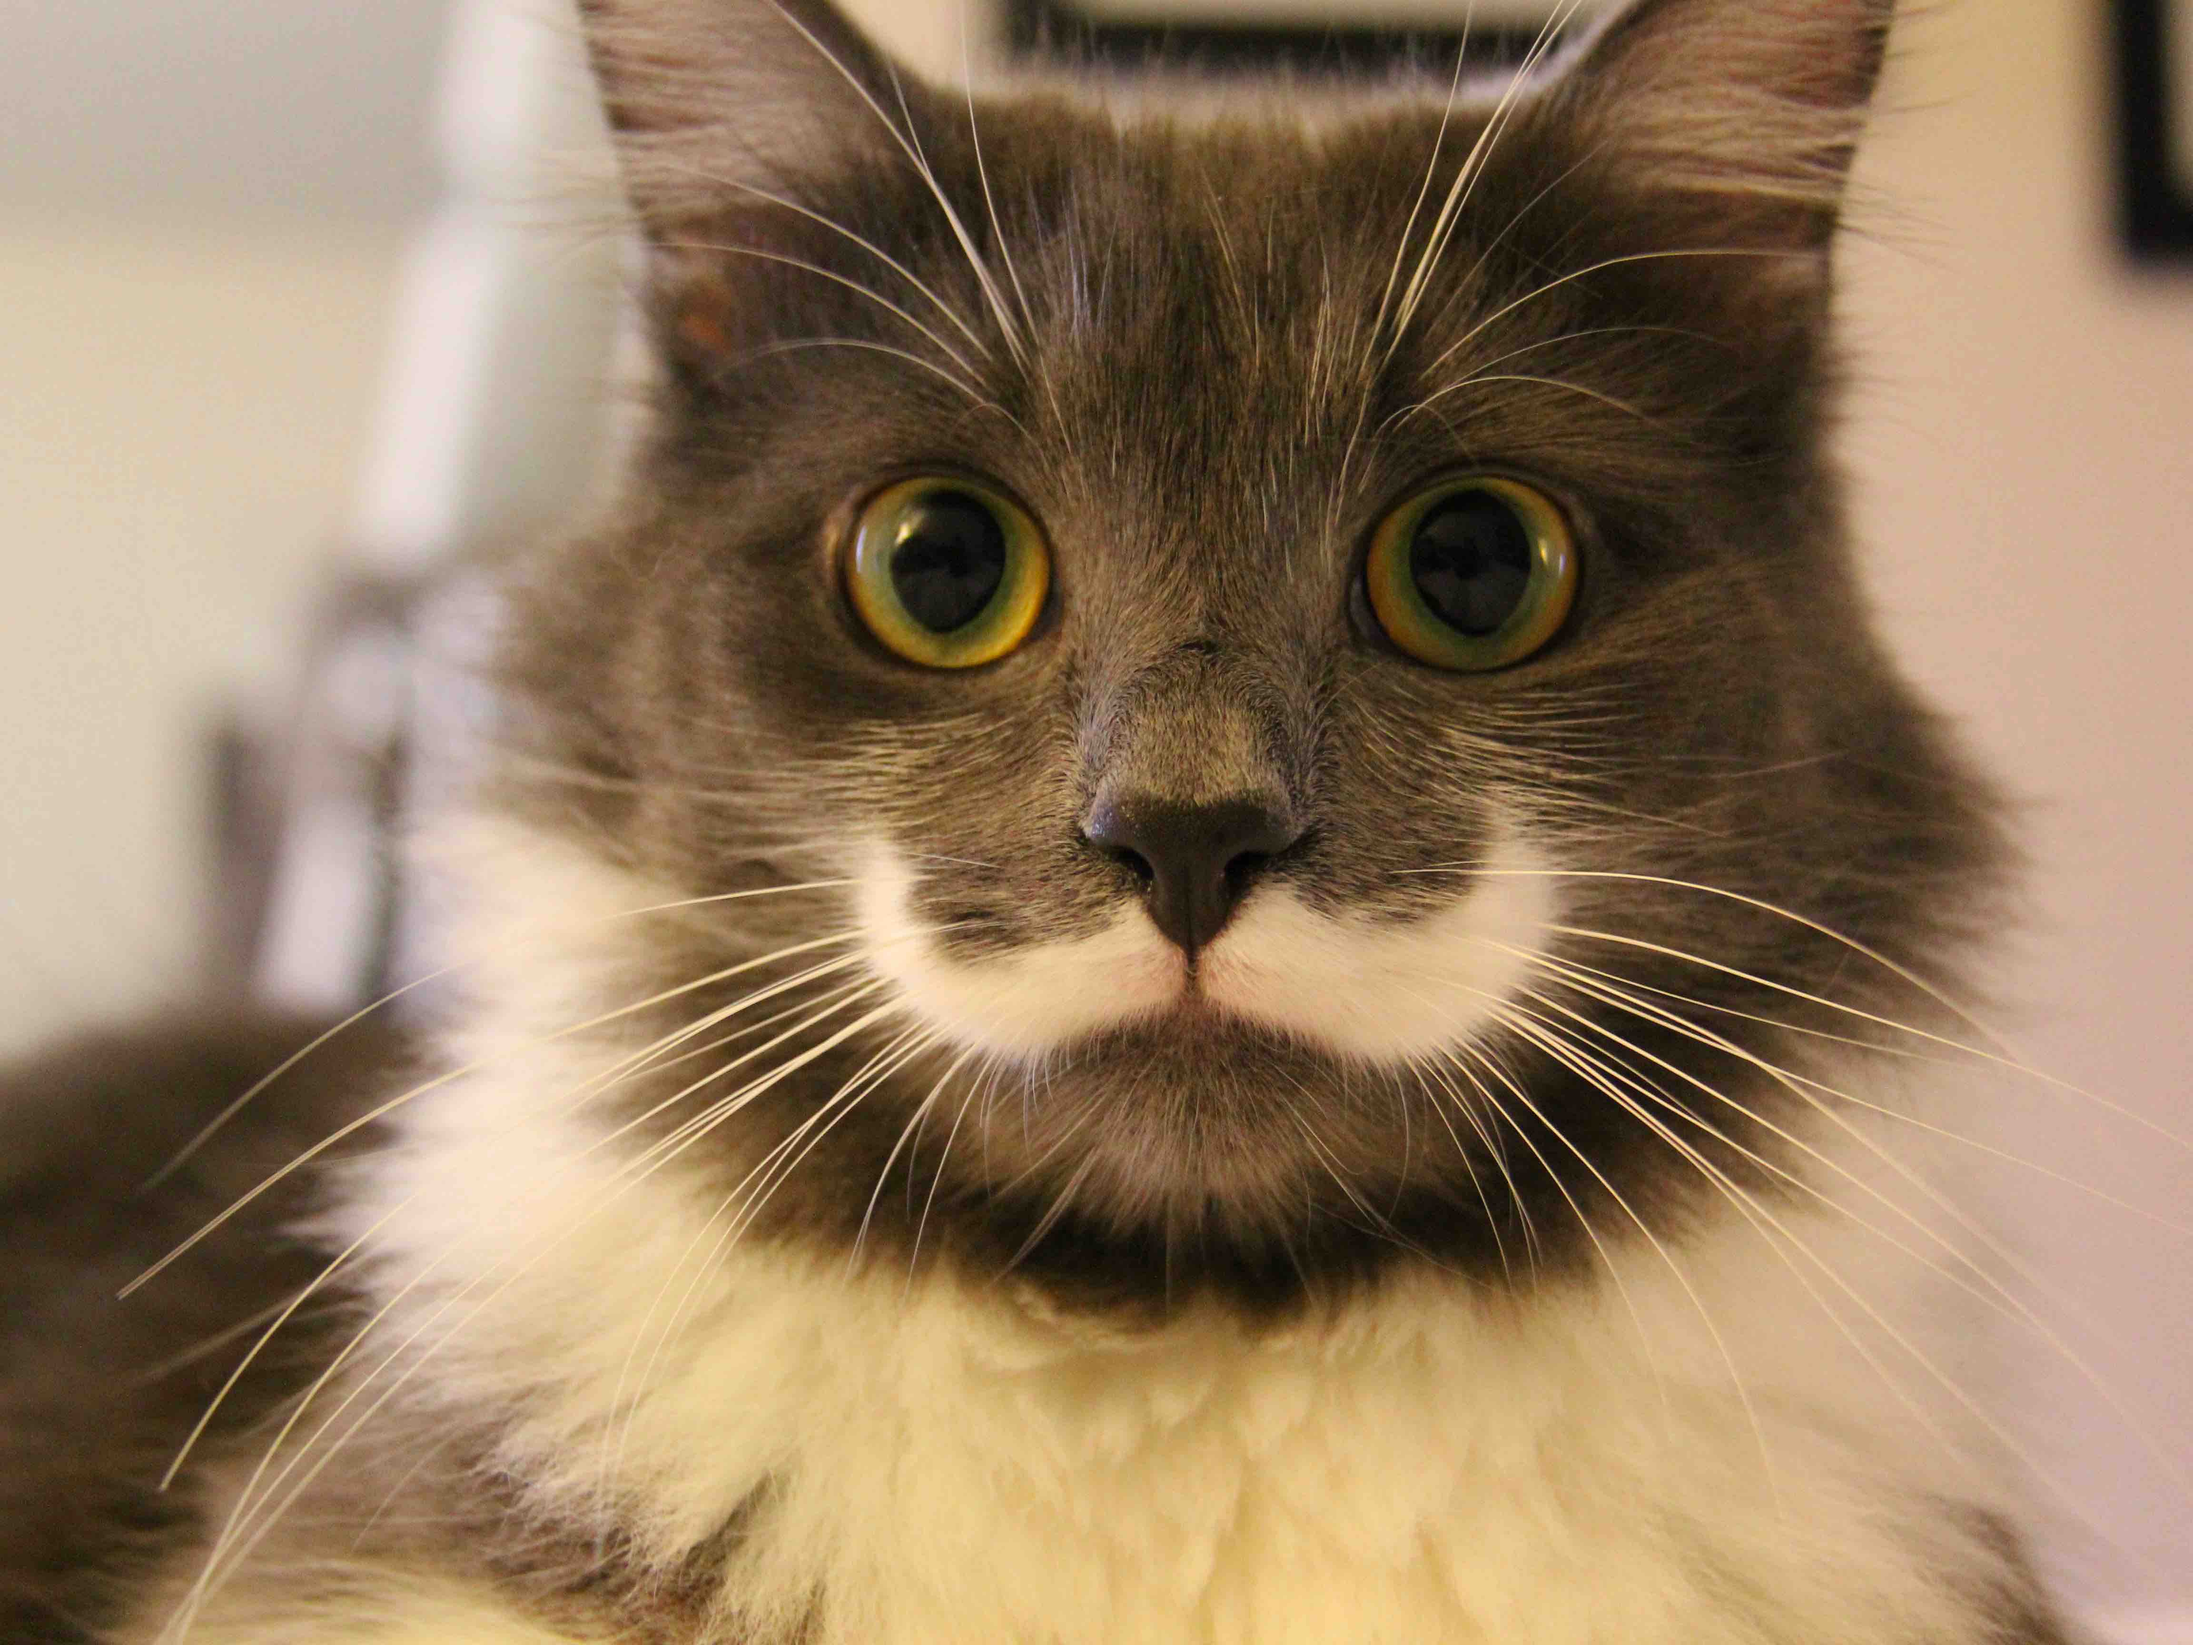
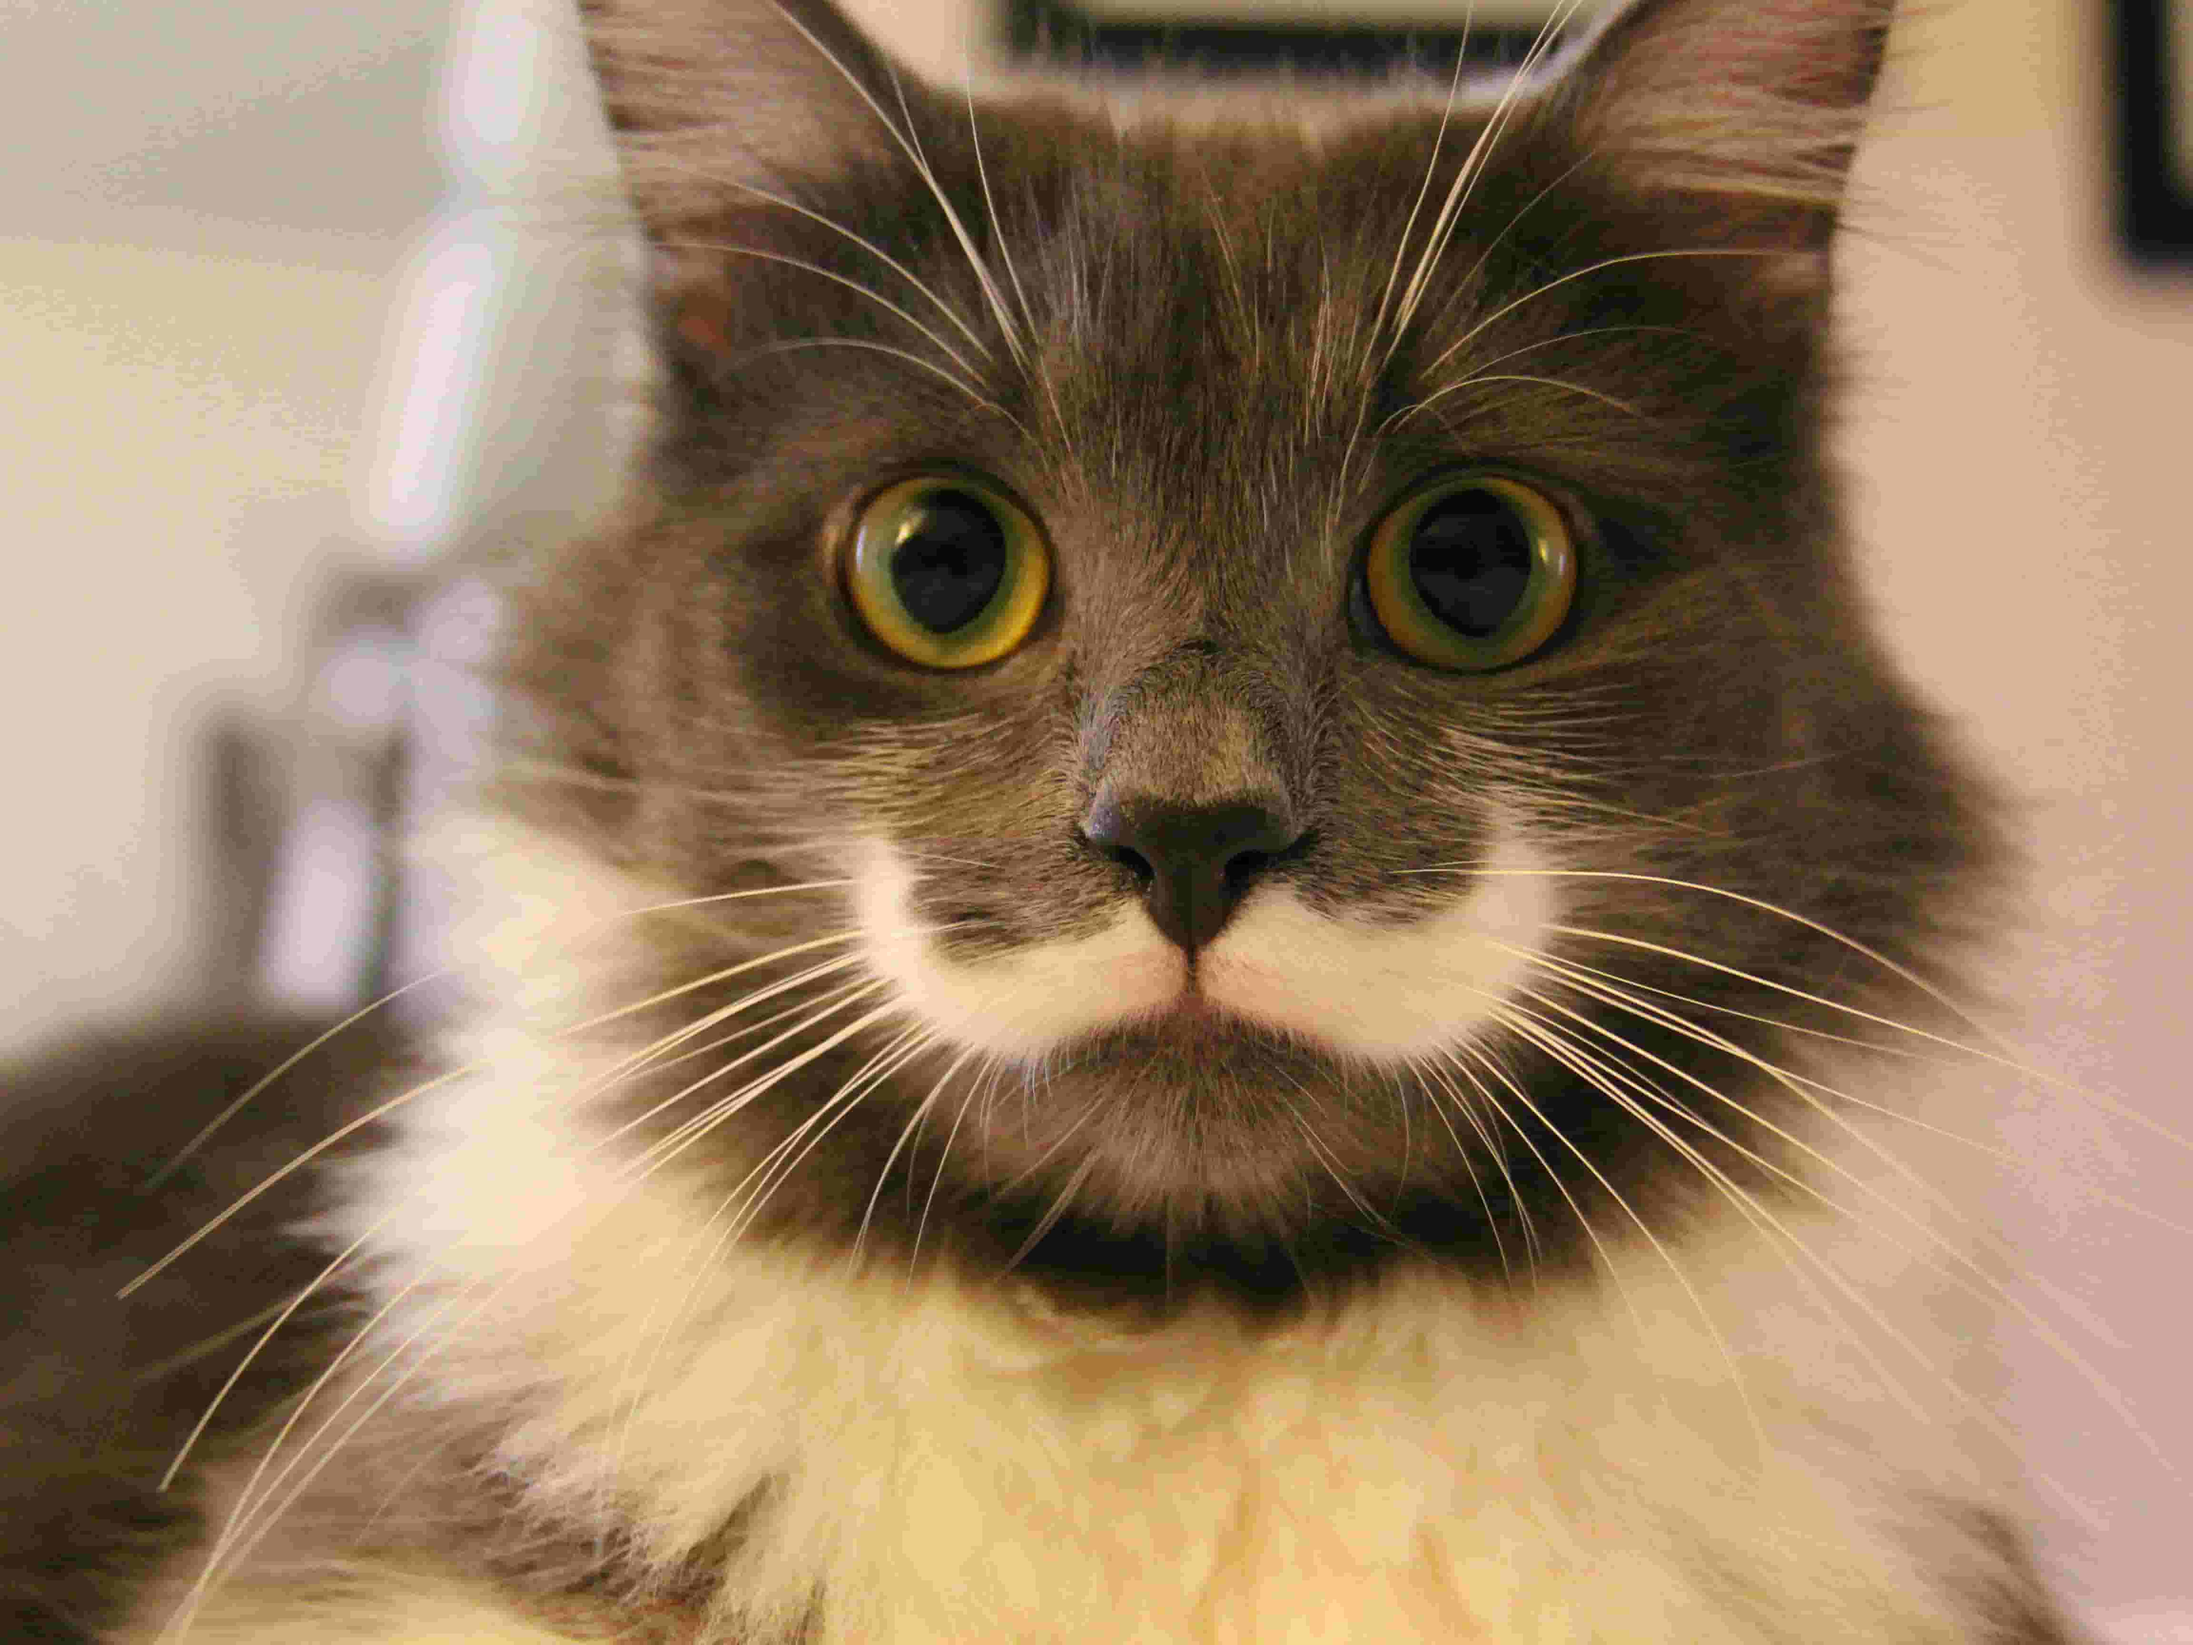
Added event and better images for the demo

Changed region(s): [[0.6875, 0.5938, 0.7812, 0.6875], [0.6562, 0.6562, 0.6875, 0.6875]]

diff --git a/image.js b/image.js
@@ -1,6 +1,30 @@
 ;
 (function(images, undefined) {
 
+  var _listeners = {}
+
+  function on(e, cb) {
+    if (!_listeners.hasOwnProperty(e)) _listeners[e] = []
+    _listeners[e].push(cb)
+  }
+
+  function emit(e) {
+    if (!_listeners.hasOwnProperty(e)) {
+      // console.warn('Events.js: event "' + e + '" has no registered listeners.')
+    } else {
+      var args = Array.prototype.slice.call(arguments)
+      args.splice(0, 1)
+
+      _listeners[e].map(function(cb) {
+        setTimeout(function() {
+          // we use a timeout to make the call async, because we don't have to wait for cb to return
+          cb.apply(null, args)
+        }, 0)
+      })
+    }
+  }
+
+
   function init() {
 
     var imgs = document.images
@@ -10,6 +34,19 @@
         var img = new Image()
         img.onload = function() {
           imgs[this.index].src = this.src
+          imgs[this.index].dataset.imageJsLoaded = true
+
+          emit('image-loaded', {
+            event: 'image-loaded',
+            name: 'Image Load',
+            message: 'High resolution image loaded.',
+            image: this,
+            elements: {
+              loaded: this,
+              modified: imgs[this.index]
+            },
+            src: this.src
+          })
         }
 
         var src = imgs[i].src,
@@ -23,6 +60,7 @@
   }
 
   images.init = init
+  images.on = on
 
   window.Images = images
 

diff --git a/demo.html b/demo.html
@@ -3,33 +3,42 @@
 <html>
 
 <head>
-<title>Image.js Demo</title>
-<style>
-  html, body {
-    margin: 0 auto;
-    padding: 0;
-    width: 100%;
-  }
-  #cat {
-    margin: 0 auto;
-    padding: 0;
-    position: absolute;
-    width: auto;
-    max-height: 100%;
-  }
-</style>
+    <title>Image.js Demo</title>
+    <style>
+        html,
+        body {
+            margin: 0 auto;
+            padding: 0;
+            width: 100%;
+        }
+
+        img {
+            margin: 0 auto;
+            padding: 0;
+            max-width: 100%;
+            max-height: 100%;
+        }
+
+        img:not([data-image-js-loaded]) {
+          filter: blur(1px);
+        }
+    </style>
 </head>
 
 <body>
-  
-<img id="cat" src="img/cat.jpg" data-image-js>
+    <img src="img/cat.jpg" data-image-js>
+    <img src="img/cat2.jpg" data-image-js>
 
-<script src="image.js"></script>
-<script>
-  window.onload = function () {
-    Images.init()
-  }
-</script>
+    <script src="image.js"></script>
+    <script>
+        window.onload = function() {
+            Images.on('image-loaded', function(e) {
+                console.log(e)
+            })
+
+            Images.init()
+        }
+    </script>
 
 </body>
 
